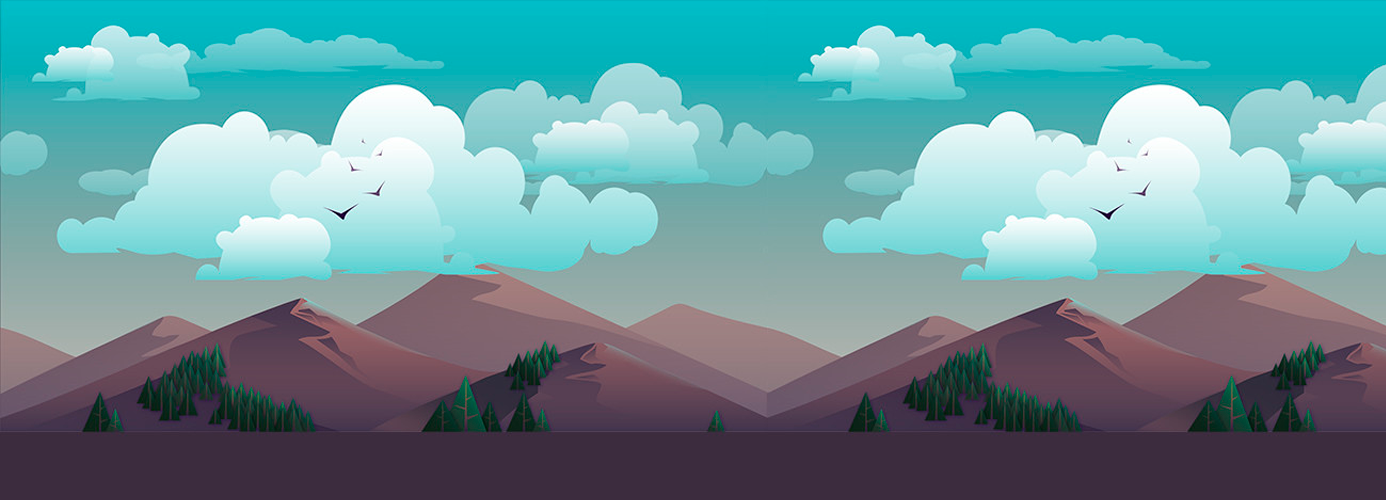
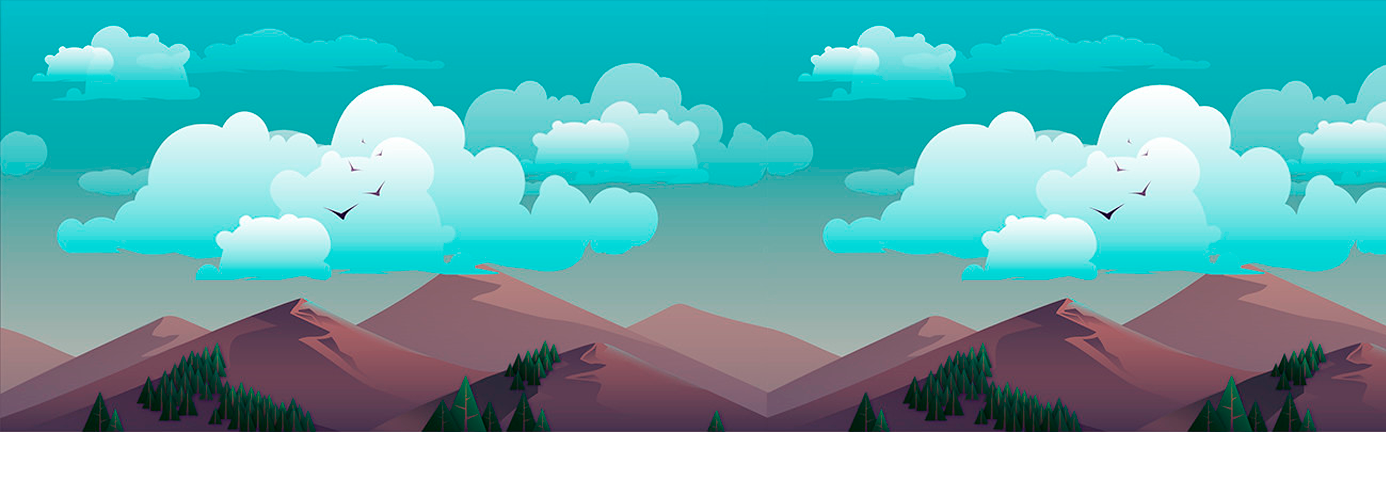
Add movimento ao chao

diff --git a/Game.html b/Game.html
@@ -33,12 +33,15 @@
         assetsMng.loadImage("bg_start_HD", "Assets/bg_start_HD.png");
         assetsMng.loadImage("bg_lost_fullhd", "Assets/bg_lost_fullhd.png");
         assetsMng.loadImage("bg_lost_HD", "Assets/bg_lost_HD.png");
+        assetsMng.loadImage("box", "Assets/box.jpg");
+        assetsMng.loadImage("chao", "Assets/chao.png");
 
         var canvas, pontos = 0, LARGURA, recorde = 0, point = 0, ALTURA, 
-        ctx, frames = 0, velocidade = 5, estadoAtual;
+        ctx, velocidade = 5, estadoAtual;
         
         var inimigo = new enemy({ x: window.innerWidth});
         var bloco = new Sprite({});
+        var chaoSprite = new Sprite({x:0, y:433, altura:60});
         var OBS = new Obstaculos({});
         var tirosVetor = [];
         var explosaoVetor = [];
@@ -57,20 +60,32 @@
         },
         chao = {
             y: 433,
-            altura: 30,
-            cor: "#black",
+            x: 0,
+            altura: 60,
+            cor: "red",
+            atualiza: function(){
+                this.x -= velocidade;
+                if( this.x <= -1000)
+                    this.x = 0;
+            },
             desenha: function () {
-                ctx.fillStyle = this.cor;
-                ctx.fillRect(0, this.y, LARGURA, this.altura);
+                chaoSprite.desenhaChao(assetsMng, this.x);
+                chaoSprite.desenhaChao(assetsMng, this.x + 1360 );
+                //ctx.fillStyle = this.cor;
+                //ctx.fillRect(0, this.y, LARGURA, this.altura);
             }
         },
         
         addEventListener("keydown", function(e){
             if (e.keyCode == 38){
-                bloco.img = 1;
-                bloco.pula();
+                if( estadoAtual == estados.jogando){
+                    bloco.img = 1;
+                    bloco.pula();
+                }
 
                 if(estadoAtual == estados.start){
+                    bloco.img = 1;
+                    bloco.pula();
                     OBS.limpa();
                     velocidade = 5;
                     bloco.gravidade = 0.5;
@@ -78,10 +93,8 @@
                     estadoAtual = estados.jogando;
                 }
             }
-            if (e.keyCode == 87){
-                if( estadoAtual == estados.jogando){
+            if (e.keyCode == 87 && estadoAtual == estados.jogando){
                     teclas.tiro = 1;
-                }
             }
         });
         
@@ -169,12 +182,11 @@
         }
         
         function atualiza() {
-            frames++;
-            
             if (estadoAtual == estados.jogando) {
                 OBS.atualiza(bloco, explosaoVetor);
                 bloco.colidiuCom(OBS, explosaoVetor);
                 bloco.atualiza(chao);
+                chao.atualiza();
                 inimigo.colidiu(tirosVetor);
                 inimigo.atualiza(estadoAtual, estados);
                 teclas.stop = 0;
@@ -193,14 +205,15 @@
         function desenha() {
             ctx.fillRect(0, 0, LARGURA, ALTURA);    //Localizaçao da canvas
             ctx.drawImage(assetsMng.img("bg"), 0, 0, LARGURA, ALTURA);
+            chao.desenha();
             
             if (estadoAtual == estados.jogar) {
                 if( LARGURA > 1360)
-                    ctx.drawImage(assetsMng.img("bg_play"), 0, 0, LARGURA, ALTURA);
-                else 
-                    ctx.drawImage(assetsMng.img("bg_play_HD"), 0, 0, LARGURA, ALTURA);          
+                ctx.drawImage(assetsMng.img("bg_play"), 0, 0, LARGURA, ALTURA);
+            else 
+                ctx.drawImage(assetsMng.img("bg_play_HD"), 0, 0, LARGURA, ALTURA);          
             }
-
+            
             if (estadoAtual == estados.start) {
                 if( LARGURA > 1360)
                     ctx.drawImage(assetsMng.img("bg_start"), 0, 0, LARGURA, ALTURA);
@@ -233,8 +246,8 @@
                 ctx.fillText(pontos, 145, 52);
                 ctx.fillText("Score:", 30, 50);
             }
-            bloco.desenha(ctx);
             //chao.desenha();
+            bloco.desenha(ctx);
         }
         main();
         </script>

diff --git a/enemy.js b/enemy.js
@@ -2,8 +2,8 @@ function enemy(exemplo = {}){
     var {
         x = 1300,
         y = 150,
-        w = 40,
-        h = 100,
+        w = 50,
+        h = 50,
         vx = 100,
         vy = 300,
         cont = 0,
@@ -28,15 +28,17 @@ enemy.prototype = new enemy();
 enemy.prototype.constructor = enemy;
 
 enemy.prototype.desenha = function(ctx){
-    ctx.fillStyle = this.color;
-    ctx.fillRect(this.x, this.y, this.w, this.h);
-}
+   
+    ctx.drawImage(assetsMng.img("box"), this.x, this.y, 50, 50);
 
+    //ctx.fillStyle = this.color;
+    //ctx.fillRect(this.x, this.y, this.w, this.h)
+}
 enemy.prototype.mover = function(dt){
     this.x = this.x - this.vx * dt;
     this.cont++;
     
-    if( this.cont > 100){
+    if( this.cont > 150){
         this.vx = 0;
 
         this.y = this.y - this.vy * dt;
@@ -50,7 +52,7 @@ enemy.prototype.mover = function(dt){
     }
 
     if(this.h > 0)
-        this.atirar();
+        //this.atirar();
         
         if( this.atirando > 0 ){
             this.atirando = this.atirando - dt;

diff --git a/Sprite.js b/Sprite.js
@@ -32,13 +32,13 @@ function Sprite(exemplo = {}){
 Sprite.prototype = new Sprite({});
 Sprite.constructor = Sprite;
 
-Sprite.prototype.desenha = function(ctx){
+Sprite.prototype.desenha = function(ctx, x){
 
     if (this.img == 0)
         ctx.drawImage(assetsMng.img("player2"), bloco.x-11, bloco.y-8, 70, 70); 
     else 
         ctx.drawImage(assetsMng.img("player"), bloco.x-11, bloco.y-8, 70, 70); 
-    
+
     //ctx.fillStyle = this.color;
     //ctx.fillRect(this.x, this.y, this.largura, this.altura);
 }
@@ -100,4 +100,8 @@ Sprite.prototype.colidiuCom2 = function(obs, explosaoVetor){
             pontos = 0;
             estadoAtual = estados.perdeu;
     }
+}
+
+Sprite.prototype.desenhaChao = function(assetsMng, x){
+        ctx.drawImage(assetsMng.img("chao"), x, 430, 1360, 80 );
 }

diff --git a/Obstaculos.js b/Obstaculos.js
@@ -18,14 +18,14 @@ Obstaculos.prototype.insere = function (){
     this.vetorObstaculo.push({
         x: LARGURA,
         largura: 75,
-        altura: Math.floor(100 * Math.random()) + Math.floor(100 * Math.random()),
+        altura: 50 + Math.floor(70 * Math.random()) + Math.floor(70 * Math.random()),
         cor: this.cores[Math.floor(3 * Math.random())]
     });
 
     this.vetorObstaculo2.push({
         x: LARGURA,
         largura: 75,
-        altura: Math.floor(100 * Math.random()) + Math.floor(100 * Math.random()),
+        altura: 50 + Math.floor(70 * Math.random()) + Math.floor(70 * Math.random()),
         cor: this.cores[Math.floor(3 * Math.random())]
     });
 
